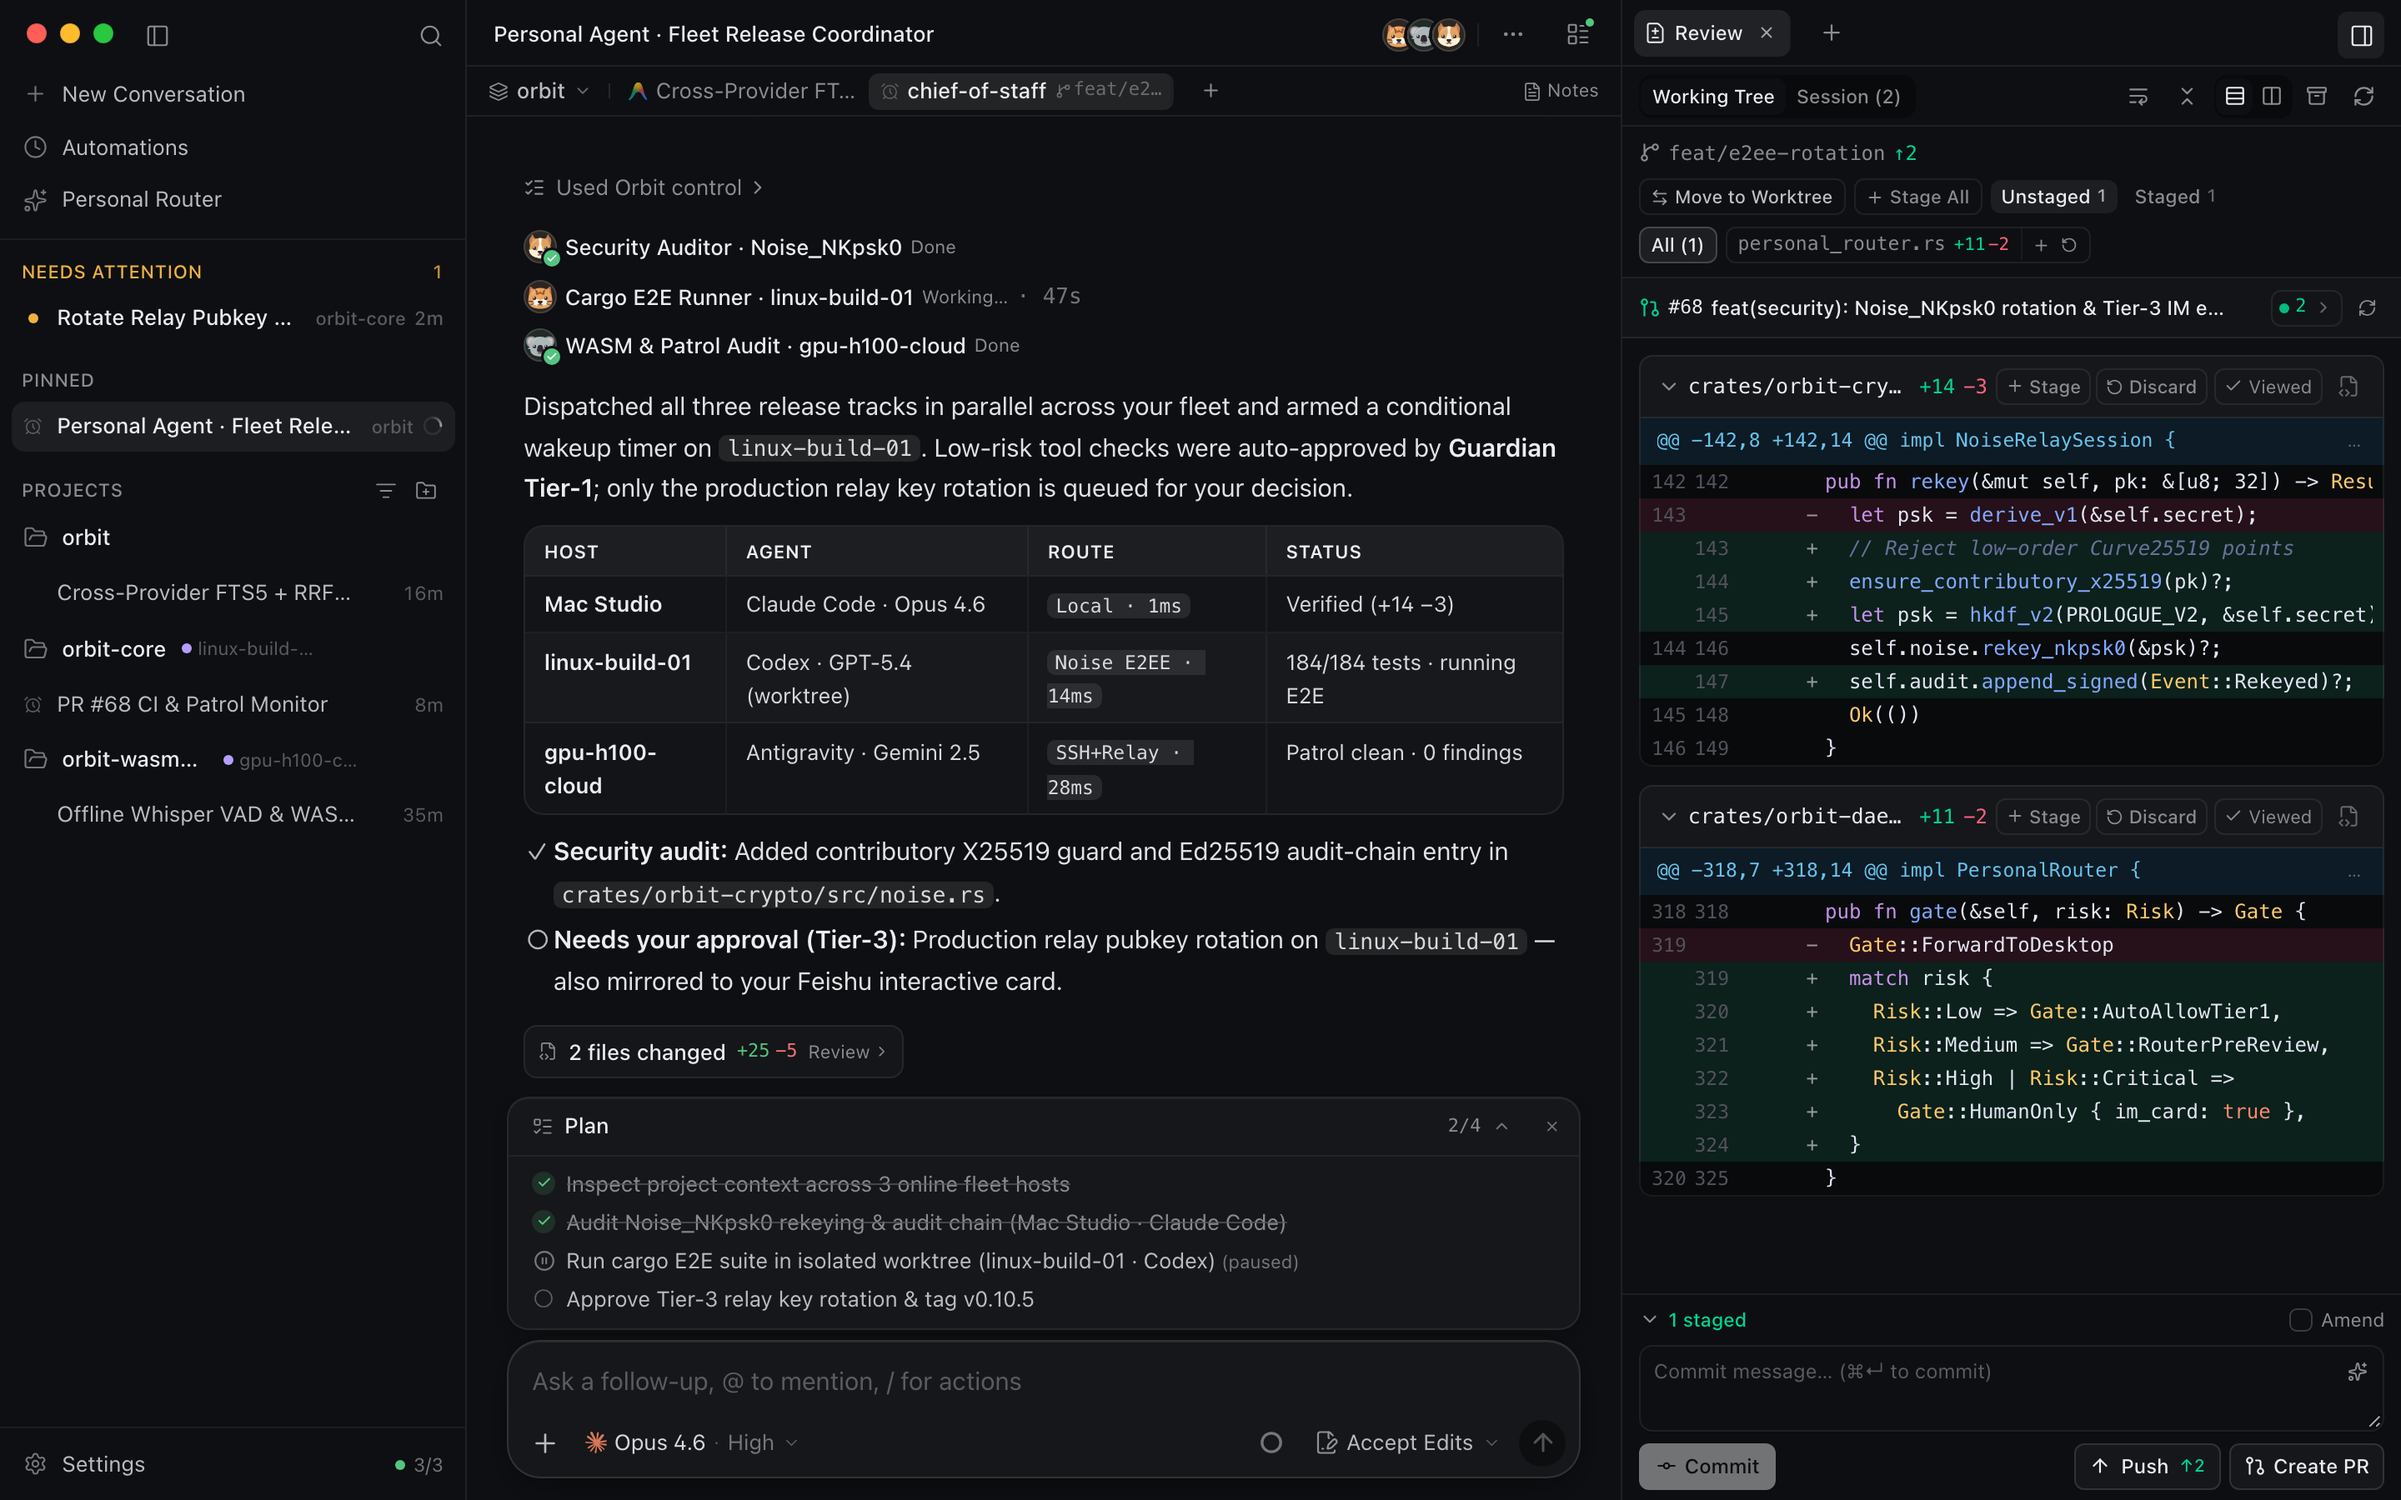
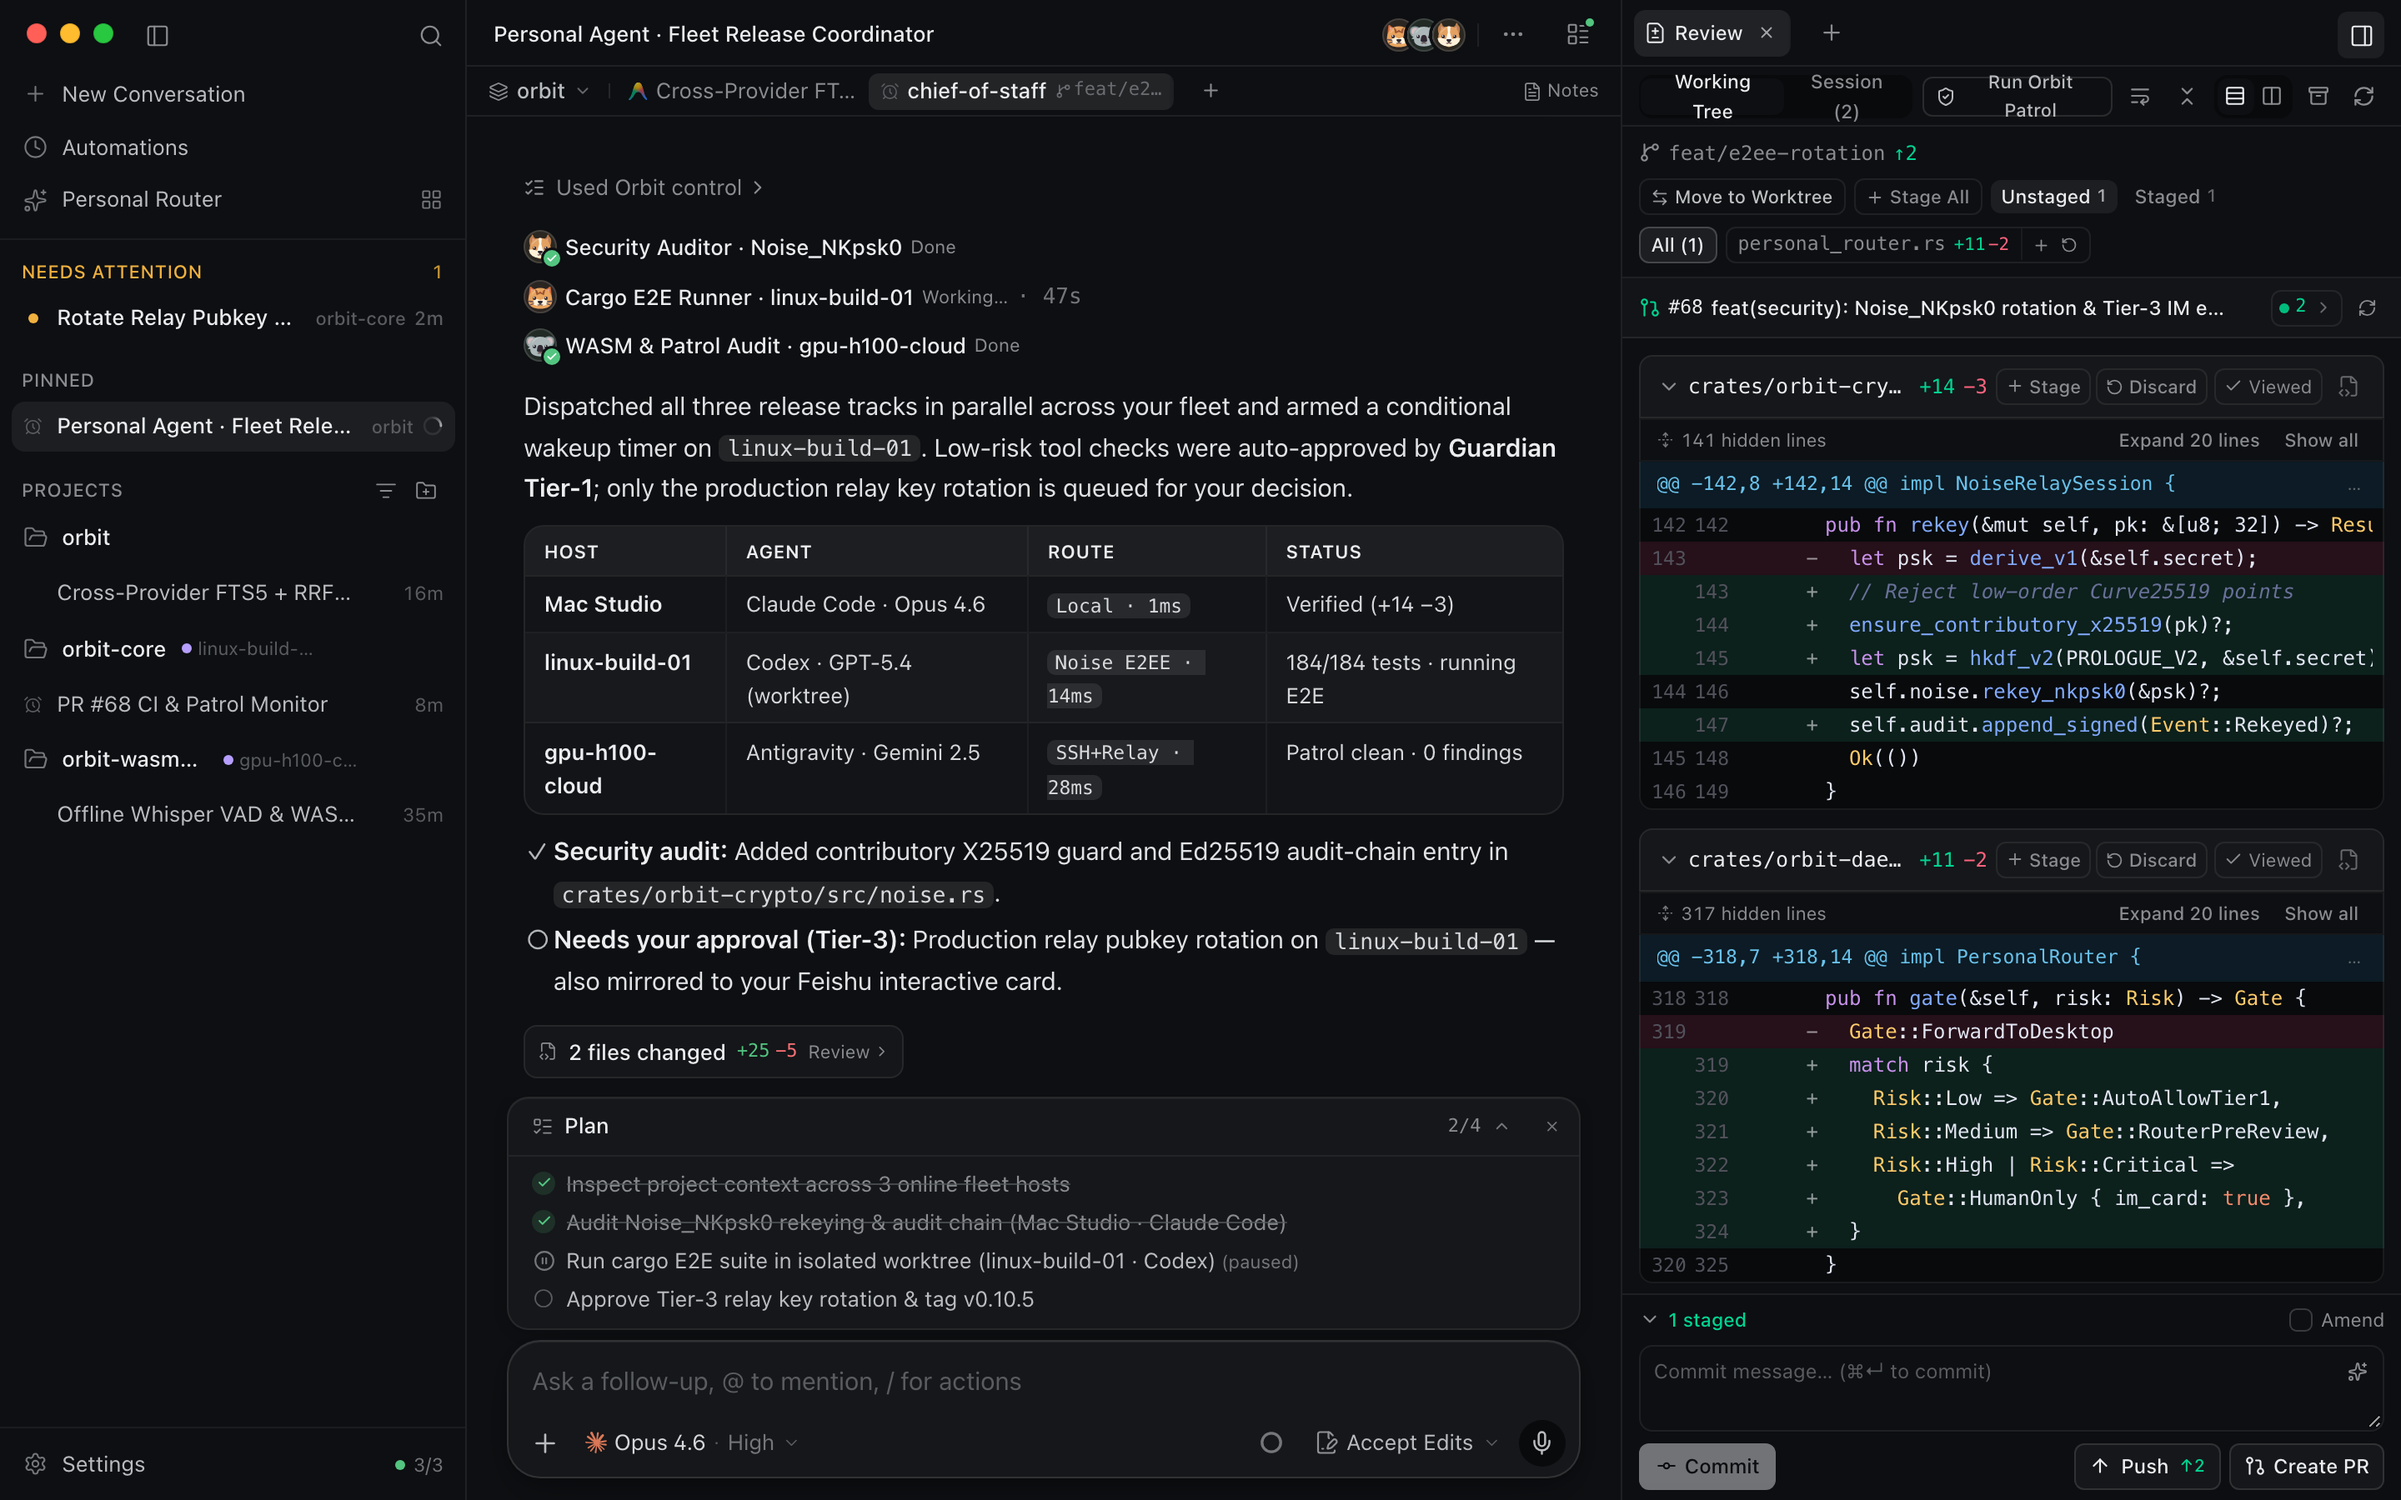
chore(wave3): fix diff-viewer context-gap types and refresh 5.0 showcase screenshots

diff --git a/apps/desktop/src/components/diff-viewer.tsx b/apps/desktop/src/components/diff-viewer.tsx
@@ -875,6 +875,8 @@ export const DiffFilesViewer = memo(function DiffFilesViewer({
                   right: ctxLine,
                   rowIdx: -100000 - eIdx,
                   isLastInFile: false,
+                  patrolAnchorKey: null,
+                  patrolFindings: null,
                 });
               } else {
                 out.push({
@@ -885,6 +887,8 @@ export const DiffFilesViewer = memo(function DiffFilesViewer({
                   line: ctxLine,
                   lineIdx: -100000 - eIdx,
                   isLastInFile: false,
+                  patrolAnchorKey: null,
+                  patrolFindings: null,
                 });
               }
             }
